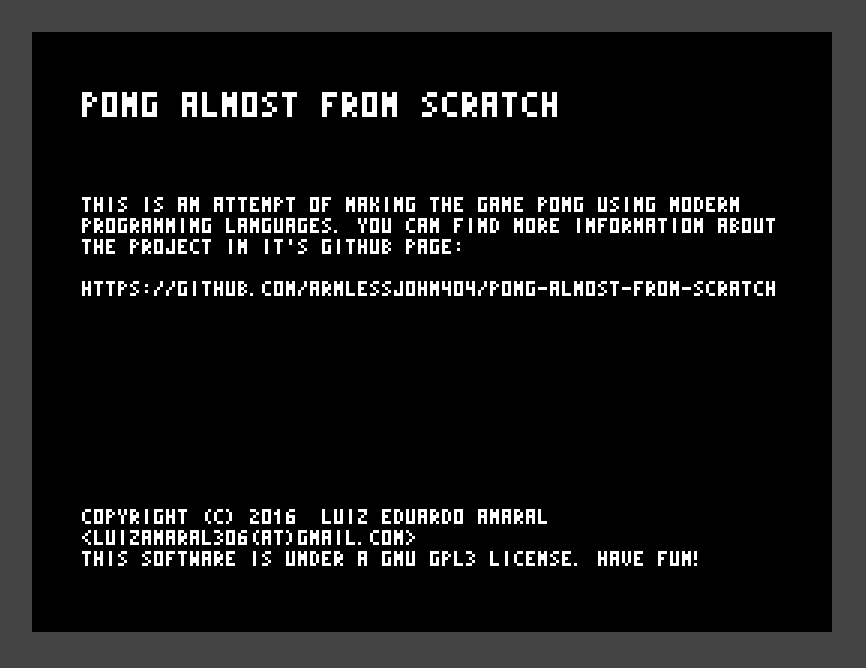
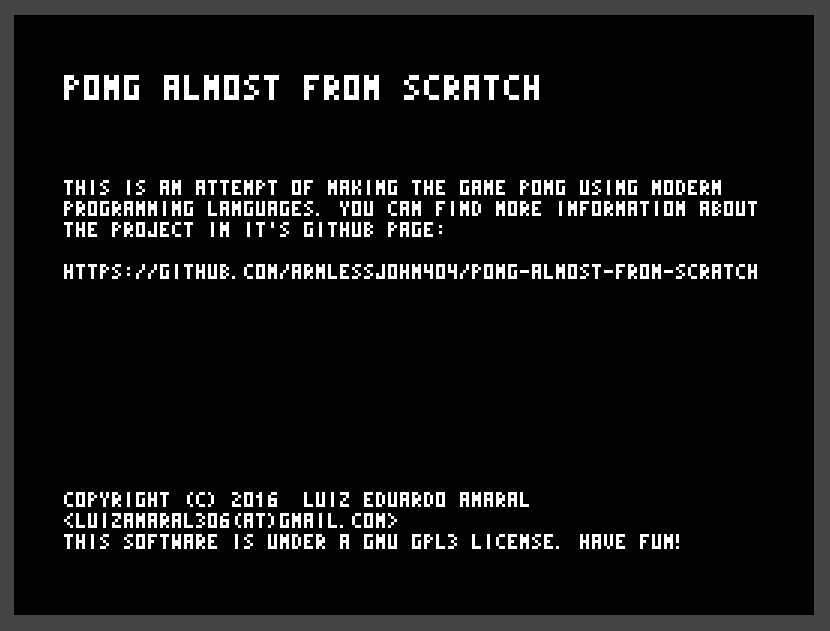
t11:00 added enemy AI

Changed region(s): [[0.0, 0.0, 0.994, 0.9937], [0.6928, 0.813, 0.8133, 0.8732]]

diff --git a/gameloop.js b/gameloop.js
@@ -40,7 +40,6 @@ let startScreen = {}
 let enemyScreen = {}
 let versusScreen = {}
 let creditsScreen = {}
-let gameOver = {}
 
 Game._onEachFrame = (function() {
   if (window.RequestAnimationFrame) {
@@ -203,19 +202,21 @@ creditsScreen.init = () => {
   Game.context.clearRect(0, 0, Game.width, Game.height);
   let t1 = "PONG ALMOST FROM SCRATCH"
   let m1 = "This is an attempt of making the game pong using modern";
-  let m2 = "programming languages. You can find more information about";
-  let m3 = "the project in it's github page:";
-  let m4 = "https://github.com/ArmlessJohn404/pong-almost-from-scratch"
+  let m2 = "programming languages. The AI enemy is vicious!"
+  let m3 = "You can find more information about the project in it's";
+  let m4 = "github page:";
+  let m5 = "https://github.com/ArmlessJohn404/pong-almost-from-scratch"
   let b1 = "Copyright (C) 2016  Luiz Eduardo Amaral"
   let b2 = "<luizamaral306(at)gmail.com>"
-  let b3 = "This software is under a GNU GPL3 license. Have fun!"
+  let b3 = "This software is under a GNU GPL3 license. Have fun! :)"
   let creditsTitleSize = 5;
   let creditsSize = 3;
   writeText(50, gridSize*5, t1, creditsTitleSize);
   writeText(50, gridSize*5+creditsTitleSize*21, m1, creditsSize);
   writeText(50, gridSize*5+creditsTitleSize*21+creditsSize*7, m2, creditsSize);
-  writeText(50, gridSize*5+creditsTitleSize*21+creditsSize*14, m3, creditsSize);
+  writeText(50, gridSize*5+creditsTitleSize*21+creditsSize*21, m3, creditsSize);
   writeText(50, gridSize*5+creditsTitleSize*21+creditsSize*28, m4, creditsSize);
+  writeText(50, gridSize*5+creditsTitleSize*21+creditsSize*42, m5, creditsSize);
   writeText(50, Game.height-(gridSize*5+creditsSize*21), b1, creditsSize);
   writeText(50, Game.height-(gridSize*5+creditsSize*14), b2, creditsSize);
   writeText(50, Game.height-(gridSize*5+creditsSize*7), b3, creditsSize);
@@ -223,3 +224,20 @@ creditsScreen.init = () => {
 
 creditsScreen.update = () => {if (Key.isDown(27)) Game.changeState(startScreen);}
 creditsScreen.draw = () => {}
+
+// enemy screen
+enemyScreen.init = () => {
+  versusScreen.init()
+  Game.player2.keyUp = undefined;
+  Game.player2.keyDown = undefined;
+};
+enemyScreen.draw = versusScreen.draw;
+enemyScreen.update = () => {
+  let centerDelta = Game.ball.y+gridSize/2 - Game.player2.y - paddleLength/2
+  if (Math.abs(centerDelta) > 10) {
+    Game.player2.y += paddleStep*(centerDelta>0?1:-1);
+  } else {
+    Game.player2.y += centerDelta;
+  }
+  versusScreen.update()
+};

diff --git a/README.md b/README.md
@@ -16,12 +16,12 @@ The game is based in html5/canvas, CSS and ES6 javascript.
 * ~~Implement collision mechanics~~
 * ~~Host somewhere~~
 * ~~Create start screen~~
-* Create options screen
 * ~~Create credits screen~~
-* Create enemy AI
+* ~~Create enemy AI~~
 * Add sounds
 * Improve webpage
 * Get playtesters feedback
+* List requests/bugs
 * Fix requests/bugs
 * Finished!
 
@@ -170,3 +170,19 @@ For splitting the screens into game states, I created objects with `init`, `draw
 ![start screen](report-assets/start-screen.png "start screen")
 
 ![credits screen](report-assets/credits-screen.png "credits screen")
+
+## Enemy AI
+The game mode in which the player plays against an AI borrows all the methods from the 2 player mode, but it removes the key bindings for the `player2` and extends the update method with the following:
+```javascript
+  // calculate the distance between the center of the paddle and the ball
+  let centerDelta = ball.center, paddle.center
+  // limit movement to be at most paddleStep
+  if (Math.abs(centerDelta) > 10) {
+    Game.player2.y += paddleStep*(centerDelta>0?1:-1);
+  } else {
+  // move slowly if possible
+    Game.player2.y += centerDelta;
+  }
+  // update the rest of the game
+  versusScreen.update()
+```
